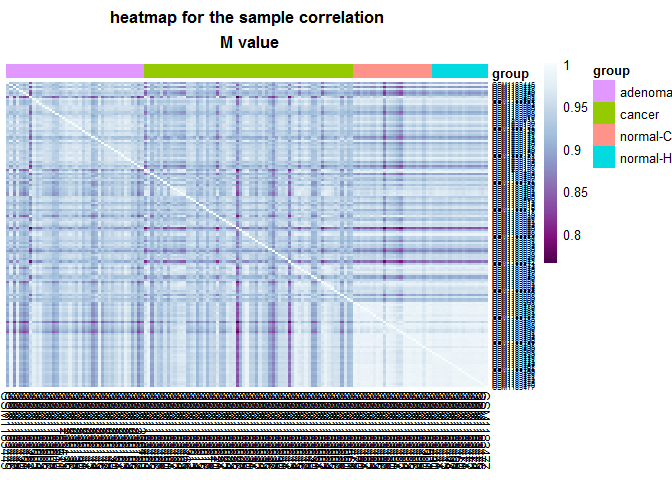
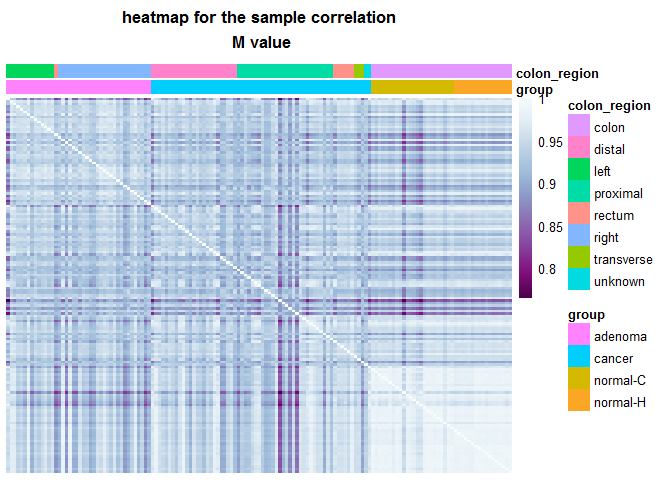
data QC

diff --git a/analysis_reports/00normalization/normalization.md b/analysis_reports/00normalization/normalization.md
@@ -335,20 +335,20 @@ head(metadata)
 ```
 
 ```
-##      group                                title geo_accession
-## 1 normal-H Genomic DNA from normal individual 1    GSM1183439
-## 2 normal-H Genomic DNA from normal individual 2    GSM1183440
-## 3 normal-H Genomic DNA from normal individual 3    GSM1183441
-## 4 normal-H Genomic DNA from normal individual 4    GSM1183442
-## 5 normal-H Genomic DNA from normal individual 5    GSM1183443
-## 6 normal-H Genomic DNA from normal individual 6    GSM1183444
-##              tissue colon_region gender stage
-## 1 colorectal mucosa        colon   Male      
-## 2 colorectal mucosa        colon   Male      
-## 3 colorectal mucosa        colon Female      
-## 4 colorectal mucosa        colon   Male      
-## 5 colorectal mucosa        colon   Male      
-## 6 colorectal mucosa        colon   Male
+##               group                                title geo_accession
+## GSM1183439 normal-H Genomic DNA from normal individual 1    GSM1183439
+## GSM1183440 normal-H Genomic DNA from normal individual 2    GSM1183440
+## GSM1183441 normal-H Genomic DNA from normal individual 3    GSM1183441
+## GSM1183442 normal-H Genomic DNA from normal individual 4    GSM1183442
+## GSM1183443 normal-H Genomic DNA from normal individual 5    GSM1183443
+## GSM1183444 normal-H Genomic DNA from normal individual 6    GSM1183444
+##                       tissue colon_region gender stage
+## GSM1183439 colorectal mucosa        colon   male  <NA>
+## GSM1183440 colorectal mucosa        colon   male  <NA>
+## GSM1183441 colorectal mucosa        colon female  <NA>
+## GSM1183442 colorectal mucosa        colon   male  <NA>
+## GSM1183443 colorectal mucosa        colon   male  <NA>
+## GSM1183444 colorectal mucosa        colon   male  <NA>
 ```
 
 Plot the density of average beta values of the filtered raw data before and after normalization.
@@ -492,7 +492,7 @@ The M value distributions have three peaks. The distributions are consistent amo
 rownames(metadata) <- metadata$geo_accession
 
 # make a function to produce heatmap
-plotHeatmap <- function(x, title = "", size = 5){
+plotHeatmap <- function(x, title = "", legend = "group", size = 2, names = F){
   ## x is an ordered matrix
   ## title is the plot title
   ## size is the font size for the rows
@@ -503,22 +503,26 @@ plotHeatmap <- function(x, title = "", size = 5){
   paletteSize <- 256
   cols <- palette(paletteSize)
   #heatmap
-  annotation <- metadata["group"] #get the legend
+  annotation <- metadata[legend] #get the legend
   pheatmap(x, color = cols,
            cluster_rows = FALSE, cluster_cols = FALSE, # turn off dendrogram
            annotation = annotation,
            fontsize_row = size,
-           main = title)
+           fontsize_col = size,
+  				 show_rownames = names,
+  				 show_colnames = names,
+  				 main = title)
 }
 
 #reorder columns by group
-order_by_group<-metadata$geo_accession[order(metadata$group)]
+order_by_group<-metadata$geo_accession[order(metadata$group, metadata$colon_region)]
 beta_cor <- cor(na.omit(raw_data_filter[, order_by_group]))
 ```
 
 
 ```r
-plotHeatmap(beta_cor, "heatmap for the sample correlation\n raw beta value")
+plotHeatmap(beta_cor, "heatmap for the sample correlation\n raw beta value",
+						legend = c("group", "colon_region"))
 ```
 
 ![](normalization_files/figure-html/beta_cor_heatmap-1.png) 
@@ -526,7 +530,7 @@ plotHeatmap(beta_cor, "heatmap for the sample correlation\n raw beta value")
 
 ```r
 norm_beta_cor <- cor(na.omit(beta.norm[, order_by_group]))
-plotHeatmap(norm_beta_cor, "heatmap for the sample correlation\n normalized beta value")
+plotHeatmap(norm_beta_cor, "heatmap for the sample correlation\n normalized beta value", legend = c("group", "colon_region"))
 ```
 
 ![](normalization_files/figure-html/beta_norm_beta_cor_heatmap-1.png) 
@@ -534,7 +538,98 @@ plotHeatmap(norm_beta_cor, "heatmap for the sample correlation\n normalized beta
 
 ```r
 M_cor <- cor(na.omit(M.norm[, order_by_group]))
-plotHeatmap(M_cor, "heatmap for the sample correlation\n M value")
+plotHeatmap(M_cor, "heatmap for the sample correlation\n M value", legend = c("group", "colon_region"))
 ```
 
 ![](normalization_files/figure-html/M_cor_heatmap-1.png) 
+
+
+#### PCA analysis
+
+PCA for the normalized beta value
+
+
+```r
+#df <- na.omit(beta.norm)
+#df_pca <- prcomp(df, center = F, scale = F)
+#save(df_pca, file="../../data/pca/beta_norm_pca.Rdata")
+#df_prin_comp <- cbind(metadata, df_pca$rotation)
+#save(df_prin_comp, file="../../data/pca/beta_norm_pca_comp.Rdata")
+```
+
+
+```r
+load("../../data/pca/beta_norm_pca_comp.Rdata")
+# scatter plot
+ggplot(df_prin_comp, aes(PC1, PC2, label = geo_accession, color = group)) +
+  geom_point() +
+  ggtitle("Scatterplot of the first two principal components\nnormalized beta value")
+```
+
+![](normalization_files/figure-html/pca_normalized_beta-1.png) 
+
+
+For M value
+
+
+```r
+# df <- na.omit(M.norm)
+# df_pca <- prcomp(df, center = F, scale = F)
+# df_prin_comp <- cbind(metadata, df_pca$rotation)
+# save(df_prin_comp, file="../../data/pca/M_norm_pca_comp.Rdata")
+```
+
+
+```r
+load("../../data/pca/M_norm_pca_comp.Rdata")
+# scatter plot
+ggplot(df_prin_comp, aes(PC1, PC2, label = geo_accession, color = group)) +
+  geom_point() +
+  ggtitle("Scatterplot of the first two principal components\nM value")
+```
+
+![](normalization_files/figure-html/pca_M_value-1.png) 
+
+
+
+
+```r
+# 
+# df <- na.omit(beta.norm.CGI)
+# df_pca <- prcomp(df, center = F, scale = F)
+# df_prin_comp <- cbind(metadata, df_pca$rotation)
+# save(df_prin_comp, file="../../data/pca/beta_norm_cgi_pca_comp.Rdata")
+```
+
+
+```r
+load("../../data/pca/beta_norm_cgi_pca_comp.Rdata")
+# scatter plot
+ggplot(df_prin_comp, aes(PC1, PC2, label = geo_accession, color = group)) +
+  geom_point() +
+  ggtitle("Scatterplot of the first two principal components\nbeta value CGI")
+```
+
+![](normalization_files/figure-html/pca_beta_cgi_value-1.png) 
+
+
+
+```r
+# 
+# df <- na.omit(M.norm.CGI)
+# df_pca <- prcomp(df, center = F, scale = F)
+# df_prin_comp <- cbind(metadata, df_pca$rotation)
+# save(df_prin_comp, file="../../data/pca/M_norm_cgi_pca_comp.Rdata")
+```
+
+
+```r
+load("../../data/pca/M_norm_cgi_pca_comp.Rdata")
+# scatter plot
+ggplot(df_prin_comp, aes(PC1, PC2, label = geo_accession, color = group)) +
+  geom_point() +
+  ggtitle("Scatterplot of the first two principal components\nM value CGI")
+```
+
+![](normalization_files/figure-html/pca_M_cgi_value-1.png) 
+
